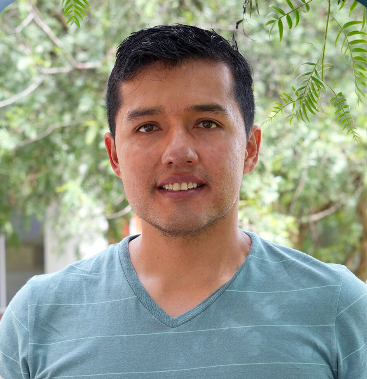
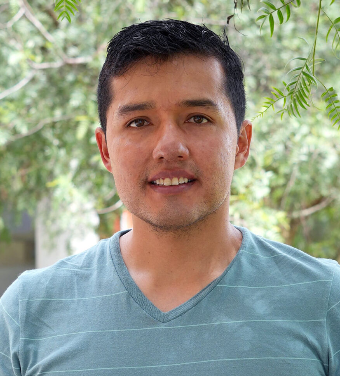
fotos profes

diff --git a/src/components/directory/DirectoryView.tsx b/src/components/directory/DirectoryView.tsx
@@ -9,6 +9,8 @@ import { getSchoolByCode } from '../../constants/schools';
 import juanPhoto from '../../assets/researchers/juan-pablo-astudillo.png';
 import diegoPhoto from '../../assets/researchers/diego-peluffo.png';
 import eugenioPhoto from '../../assets/researchers/eugenio-morocho.png';
+import jeffersonPhoto from '../../assets/researchers/jefferson-moreno-guaicha.png';
+import rigobertoPhoto from '../../assets/researchers/rigoberto-fonseca-delgado.png';
 const degreeLabels:Record<AcademicDegree,string>={PhD:'Doctorado (PhD)',MSc:'Maestría (MSc)',BSc:'Licenciatura o Ingeniería',Other:'Otro título'};
 const academicProfileLink=(teacher:TeacherUser,field:SyntheticAcademicProfileField,label:string,href:string)=>{
  if(!teacher[field]) return null;
@@ -28,7 +30,9 @@ const academicTitle = (teacher:TeacherUser) => {
 const portrait = (teacher: TeacherUser) => {
  if(teacher.profileImage) return teacher.profileImage;
  const name=teacher.name.toLowerCase();
- if(name.includes('juan pablo') && name.includes('astudillo')) return juanPhoto;
+ if(teacher.orcid==='0000-0002-0380-4739' || name.includes('jefferson') || name.includes('jeferzon')) return jeffersonPhoto;
+ if(teacher.orcid==='0000-0002-7291-3584' || name.includes('juan pablo') && name.includes('astudillo')) return juanPhoto;
+ if(teacher.orcid==='0000-0002-8890-3911' || name.includes('rigoberto') && name.includes('fonseca')) return rigobertoPhoto;
  if(name.includes('diego') && name.includes('peluffo')) return diegoPhoto;
  if(name.includes('eugenio') && name.includes('morocho')) return eugenioPhoto;
  return undefined;
